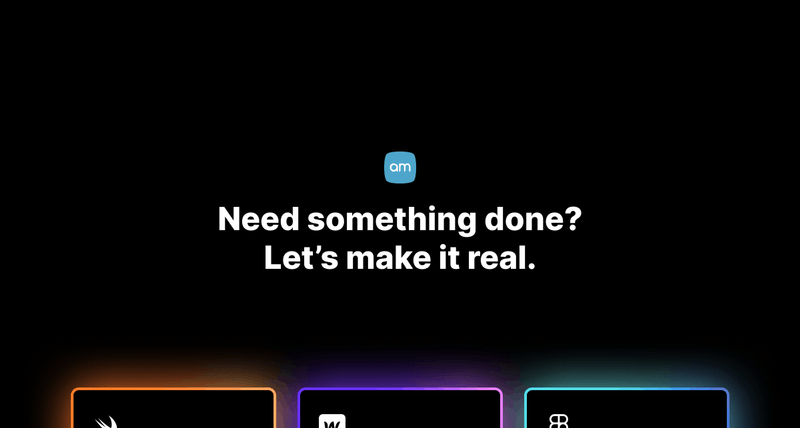
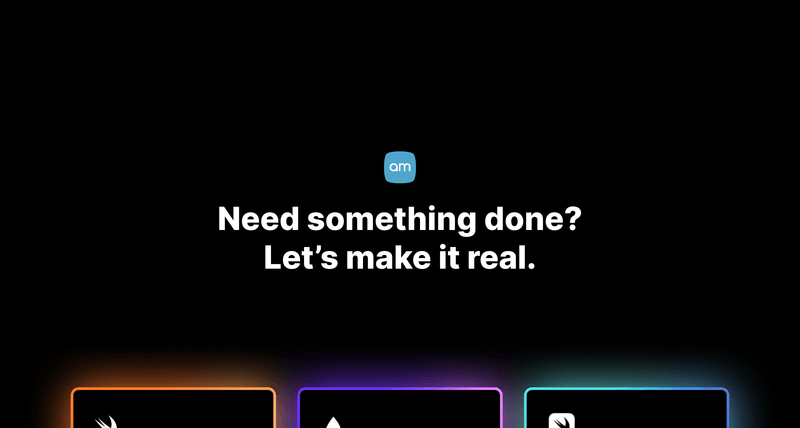
Updated OG image

diff --git a/index.html b/index.html
@@ -1,5 +1,5 @@
 <!DOCTYPE html><!--  This site was created in Webflow. https://www.webflow.com  -->
-<!--  Last Published: Wed Jan 17 2024 15:23:10 GMT+0000 (Coordinated Universal Time)  -->
+<!--  Last Published: Thu Jan 25 2024 19:02:21 GMT+0000 (Coordinated Universal Time)  -->
 <html data-wf-page="6065d70b7be4fec737eda6bd" data-wf-site="6065d70b7be4fe44f8eda6bc">
 <head>
   <meta charset="utf-8">
@@ -7,10 +7,10 @@
   <meta content="iOS Developer &amp; Webflow Designer" name="description">
   <meta content="Ale Mohamad" property="og:title">
   <meta content="iOS Developer &amp; Webflow Designer" property="og:description">
-  <meta content="https://uploads-ssl.webflow.com/6065d70b7be4fe44f8eda6bc/617f482b9644b9ec63eb1bd1_OG.png" property="og:image">
+  <meta content="https://uploads-ssl.webflow.com/6065d70b7be4fe44f8eda6bc/65b2af1a5e6b0b7ecdf583ea_OG.png" property="og:image">
   <meta content="Ale Mohamad" property="twitter:title">
   <meta content="iOS Developer &amp; Webflow Designer" property="twitter:description">
-  <meta content="https://uploads-ssl.webflow.com/6065d70b7be4fe44f8eda6bc/617f482b9644b9ec63eb1bd1_OG.png" property="twitter:image">
+  <meta content="https://uploads-ssl.webflow.com/6065d70b7be4fe44f8eda6bc/65b2af1a5e6b0b7ecdf583ea_OG.png" property="twitter:image">
   <meta property="og:type" content="website">
   <meta content="summary_large_image" name="twitter:card">
   <meta content="width=device-width, initial-scale=1" name="viewport">
@@ -49,7 +49,7 @@
         </div><img src="images/stroke-webflow.png" loading="lazy" style="opacity:0" sizes="100vw" alt="" srcset="images/stroke-webflow-p-500.png 500w, images/stroke-webflow.png 616w" class="glow-image">
       </a>
       <a data-w-id="490a2ff7-2f59-fd9a-ae5c-aeb5f3b7fc4d" href="https://www.alemohamad.com/playgrounds" target="_blank" class="card figma w-inline-block">
-        <div class="card-content"><img src="images/swift-playgrounds.svg" loading="lazy" alt="" class="card-logo">
+        <div class="card-content"><img src="images/swift-playgrounds.svg" loading="lazy" alt="Swift Playgrounds" class="card-logo">
           <h2>Keep on learning</h2>
           <p class="card-paragraph">Real coding with Playgrounds.</p>
         </div><img src="images/stroke-figma.png" loading="lazy" style="opacity:0" sizes="100vw" alt="" srcset="images/stroke-figma-p-500.png 500w, images/stroke-figma.png 616w" class="glow-image">

diff --git a/401.html b/401.html
@@ -1,5 +1,5 @@
 <!DOCTYPE html><!--  This site was created in Webflow. https://www.webflow.com  -->
-<!--  Last Published: Wed Jan 17 2024 15:23:10 GMT+0000 (Coordinated Universal Time)  -->
+<!--  Last Published: Thu Jan 25 2024 19:02:21 GMT+0000 (Coordinated Universal Time)  -->
 <html data-wf-page="6071e38a088d44f4b5929c1c" data-wf-site="6065d70b7be4fe44f8eda6bc">
 <head>
   <meta charset="utf-8">

diff --git a/404.html b/404.html
@@ -1,5 +1,5 @@
 <!DOCTYPE html><!--  This site was created in Webflow. https://www.webflow.com  -->
-<!--  Last Published: Wed Jan 17 2024 15:23:10 GMT+0000 (Coordinated Universal Time)  -->
+<!--  Last Published: Thu Jan 25 2024 19:02:21 GMT+0000 (Coordinated Universal Time)  -->
 <html data-wf-page="6071e38251fa4569b77be525" data-wf-site="6065d70b7be4fe44f8eda6bc">
 <head>
   <meta charset="utf-8">

diff --git a/apple.html b/apple.html
@@ -1,5 +1,5 @@
 <!DOCTYPE html><!--  This site was created in Webflow. https://www.webflow.com  -->
-<!--  Last Published: Wed Jan 17 2024 15:23:10 GMT+0000 (Coordinated Universal Time)  -->
+<!--  Last Published: Thu Jan 25 2024 19:02:21 GMT+0000 (Coordinated Universal Time)  -->
 <html data-wf-page="648748166d24696a06e58b51" data-wf-site="6065d70b7be4fe44f8eda6bc">
 <head>
   <meta charset="utf-8">

diff --git a/apps.html b/apps.html
@@ -1,5 +1,5 @@
 <!DOCTYPE html><!--  This site was created in Webflow. https://www.webflow.com  -->
-<!--  Last Published: Wed Jan 17 2024 15:23:10 GMT+0000 (Coordinated Universal Time)  -->
+<!--  Last Published: Thu Jan 25 2024 19:02:21 GMT+0000 (Coordinated Universal Time)  -->
 <html data-wf-page="61b39a706c1f7f4fc3bc561d" data-wf-site="6065d70b7be4fe44f8eda6bc">
 <head>
   <meta charset="utf-8">

diff --git a/every-iphone-ever-released.html b/every-iphone-ever-released.html
@@ -1,5 +1,5 @@
 <!DOCTYPE html><!--  This site was created in Webflow. https://www.webflow.com  -->
-<!--  Last Published: Wed Jan 17 2024 15:23:10 GMT+0000 (Coordinated Universal Time)  -->
+<!--  Last Published: Thu Jan 25 2024 19:02:21 GMT+0000 (Coordinated Universal Time)  -->
 <html data-wf-page="65096fb461ed58c3db4a5832" data-wf-site="6065d70b7be4fe44f8eda6bc">
 <head>
   <meta charset="utf-8">

diff --git a/ios-version-by-device.html b/ios-version-by-device.html
@@ -1,5 +1,5 @@
 <!DOCTYPE html><!--  This site was created in Webflow. https://www.webflow.com  -->
-<!--  Last Published: Wed Jan 17 2024 15:23:10 GMT+0000 (Coordinated Universal Time)  -->
+<!--  Last Published: Thu Jan 25 2024 19:02:21 GMT+0000 (Coordinated Universal Time)  -->
 <html data-wf-page="659405513480cdb634d49ec9" data-wf-site="6065d70b7be4fe44f8eda6bc">
 <head>
   <meta charset="utf-8">

diff --git a/playgrounds.html b/playgrounds.html
@@ -1,5 +1,5 @@
 <!DOCTYPE html><!--  This site was created in Webflow. https://www.webflow.com  -->
-<!--  Last Published: Wed Jan 17 2024 15:23:10 GMT+0000 (Coordinated Universal Time)  -->
+<!--  Last Published: Thu Jan 25 2024 19:02:21 GMT+0000 (Coordinated Universal Time)  -->
 <html data-wf-page="655a310ccb1ae6c0817f8df9" data-wf-site="6065d70b7be4fe44f8eda6bc">
 <head>
   <meta charset="utf-8">

diff --git a/privacy-policy.html b/privacy-policy.html
@@ -1,5 +1,5 @@
 <!DOCTYPE html><!--  This site was created in Webflow. https://www.webflow.com  -->
-<!--  Last Published: Wed Jan 17 2024 15:23:10 GMT+0000 (Coordinated Universal Time)  -->
+<!--  Last Published: Thu Jan 25 2024 19:02:21 GMT+0000 (Coordinated Universal Time)  -->
 <html data-wf-page="61b86d3bec1cf15a6662ec56" data-wf-site="6065d70b7be4fe44f8eda6bc">
 <head>
   <meta charset="utf-8">

diff --git a/uses.html b/uses.html
@@ -1,5 +1,5 @@
 <!DOCTYPE html><!--  This site was created in Webflow. https://www.webflow.com  -->
-<!--  Last Published: Wed Jan 17 2024 15:23:10 GMT+0000 (Coordinated Universal Time)  -->
+<!--  Last Published: Thu Jan 25 2024 19:02:21 GMT+0000 (Coordinated Universal Time)  -->
 <html data-wf-page="6370208ac3c481d8ef37c11c" data-wf-site="6065d70b7be4fe44f8eda6bc">
 <head>
   <meta charset="utf-8">
